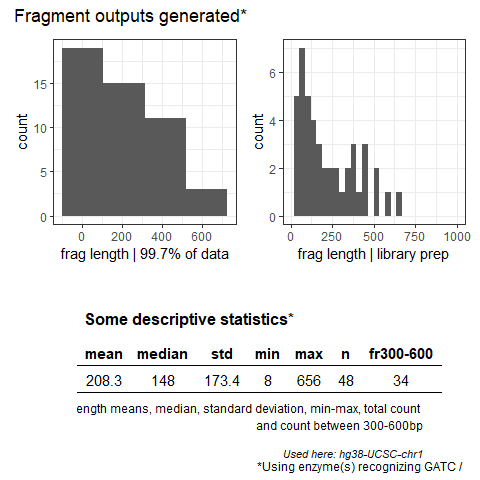
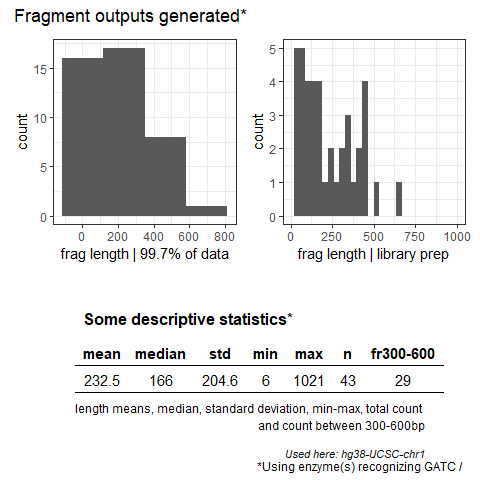
image (3)

diff --git a/README.md b/README.md
@@ -5,8 +5,8 @@
 
 <!-- badges: start -->
 <!-- badges: end -->
-<!-- ![FROG](/c/Users/pelechanolabuser/Desktop/raukr 2023/Project/FROGmentorv1.png) -->
 
+![FROG](/c/Users/pelechanolabuser/Desktop/raukr%202023/Project/FROGmentorv1.png)
 The goal of FROGmentator is to calculate fragment lengths upon template
 DNA fragmentation with specific pattern recognizing, (restriction)
 enzymes
@@ -37,7 +37,7 @@ pattern1<-'GATC'
 FROG_pal_output<-FROG_pal(my_DNA, pattern1)
 
 head(FROG_pal_output) # fragment length sizes
-#> [1] 656  75 526 378 142  72
+#> [1] 153  23 105 456 183 438
 ```
 
 ``` r
